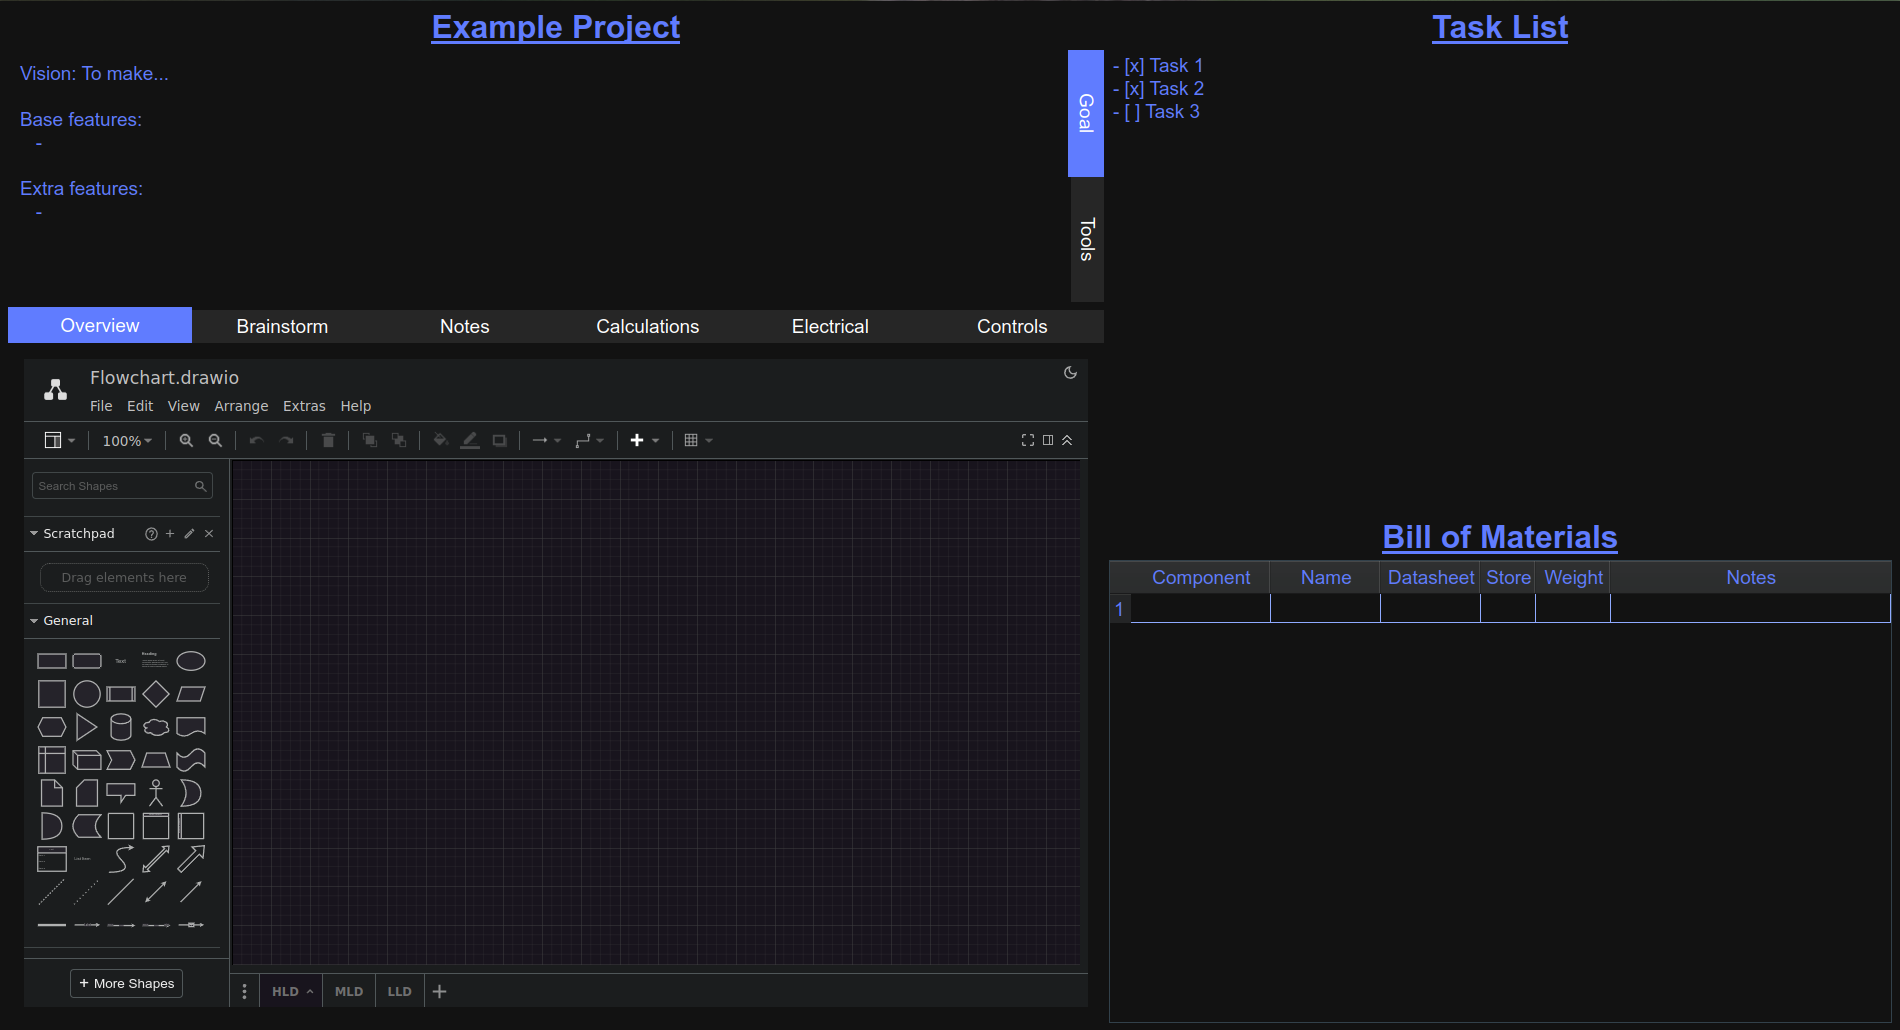
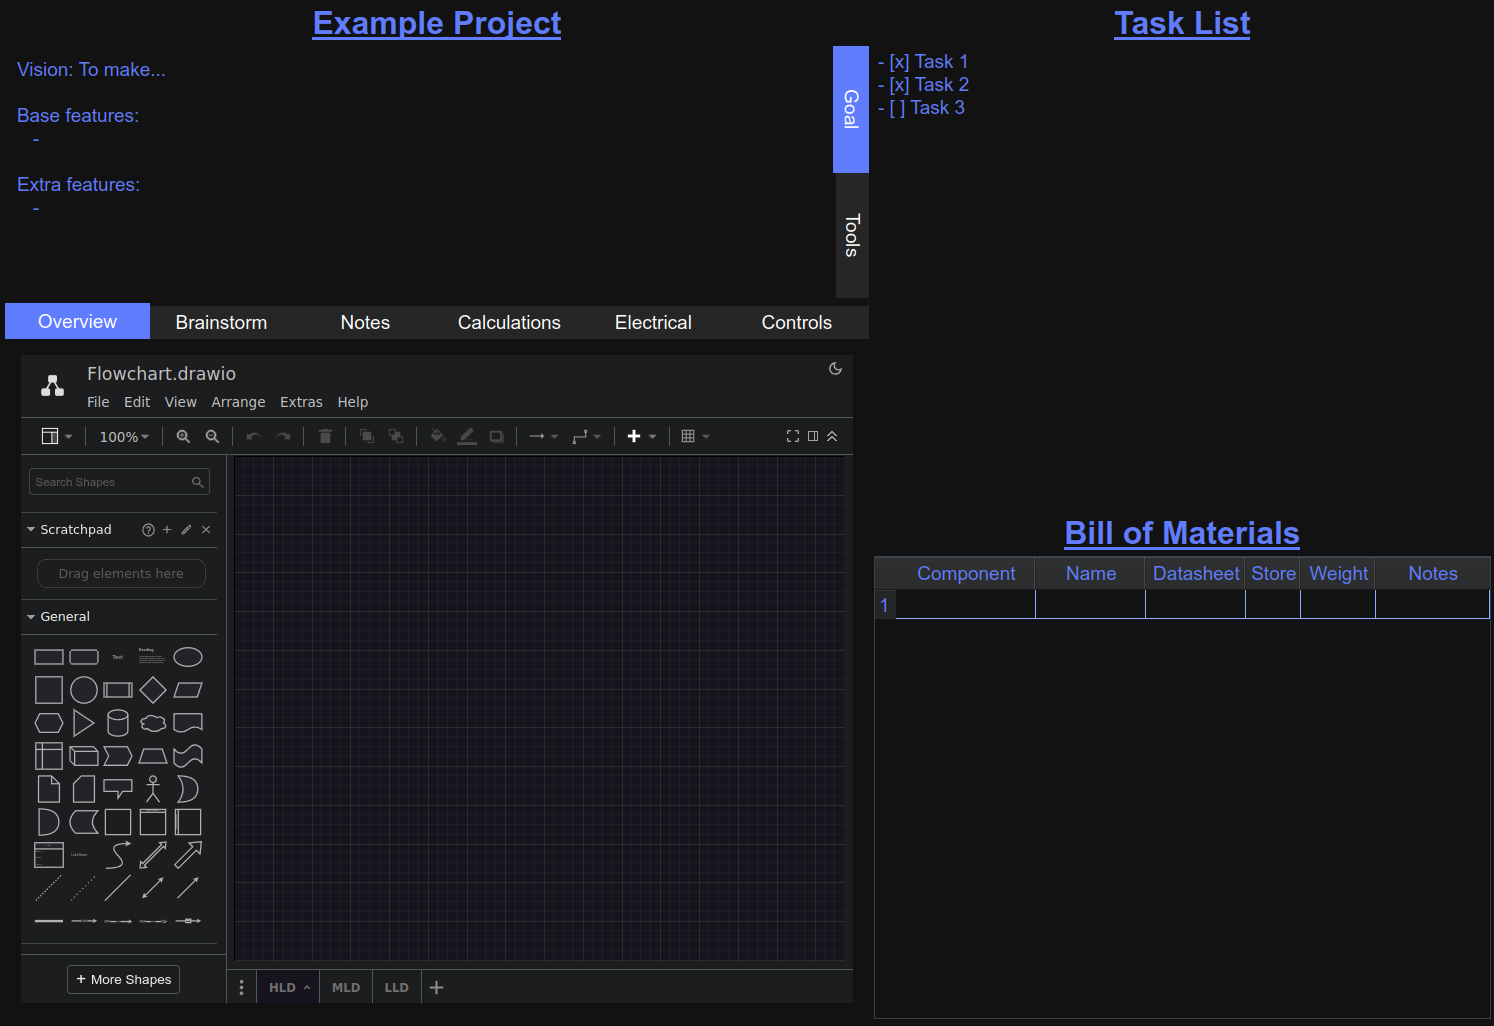
Fix layout and picture

diff --git a/src/index.js b/src/index.js
@@ -5,9 +5,6 @@ import Particles from "react-particles-js";
 import "./index.css";
 import projects from "./projects.json";
 
-// TODO: Fix media spacing and text stuff fitting right
-// TODO: put tools under media in landscape and maybe squish it even more (then need a revers one too)
-
 class Document extends React.Component {
 	render() {
 		return (
@@ -88,11 +85,11 @@ class About extends React.Component {
 						<p>
 							I am a <b>Mechatronics Engineering</b> graduate from the
 							University of Waterloo. I <b>started programming in 2012</b> and
-							am skilled in many areas such as
+							am skilled in many areas such as{" "}
 							<b>full stack, mobile, desktop and firmware development</b>. I use
 							a variety of programming languages and I'm always learning more. I
 							am always looking for opportunities to expand my knowledge in all
-							areas. However, currently I would like to focus on
+							areas. However, currently I would like to focus on{" "}
 							<b>mechanical and electrical design</b> as these two areas
 							fascinate me the most. Currently I am doing this by working on
 							woodworking and PCB design projects. I enjoy playing a variety of
@@ -192,7 +189,7 @@ function displayMedia(name, extension) {
 			return (
 				<ReactPlayer
 					className="media"
-					// width="100%"
+					width="100%"
 					alt=""
 					url={"./Images/" + name + extension}
 					playing
@@ -205,7 +202,7 @@ function displayMedia(name, extension) {
 			return (
 				<img
 					className="media"
-					// width="100%"
+					width="100%"
 					src={"./Images/" + name + extension}
 					alt=""
 				/>

diff --git a/src/index.css b/src/index.css
@@ -273,7 +273,7 @@ b {
 }
 
 .reverse.under {
-	grid-template-areas: "title media" "blerb media" "media tools";
+	grid-template-areas: "title media" "blerb media" "blerb tools";
 }
 
 .landscape {
